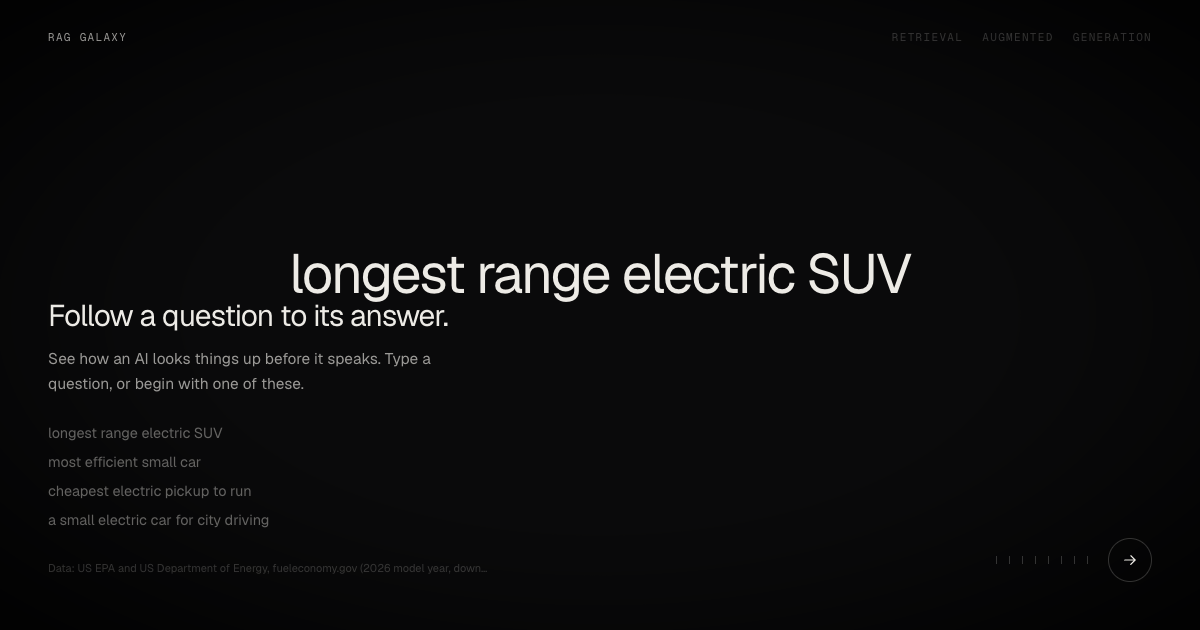
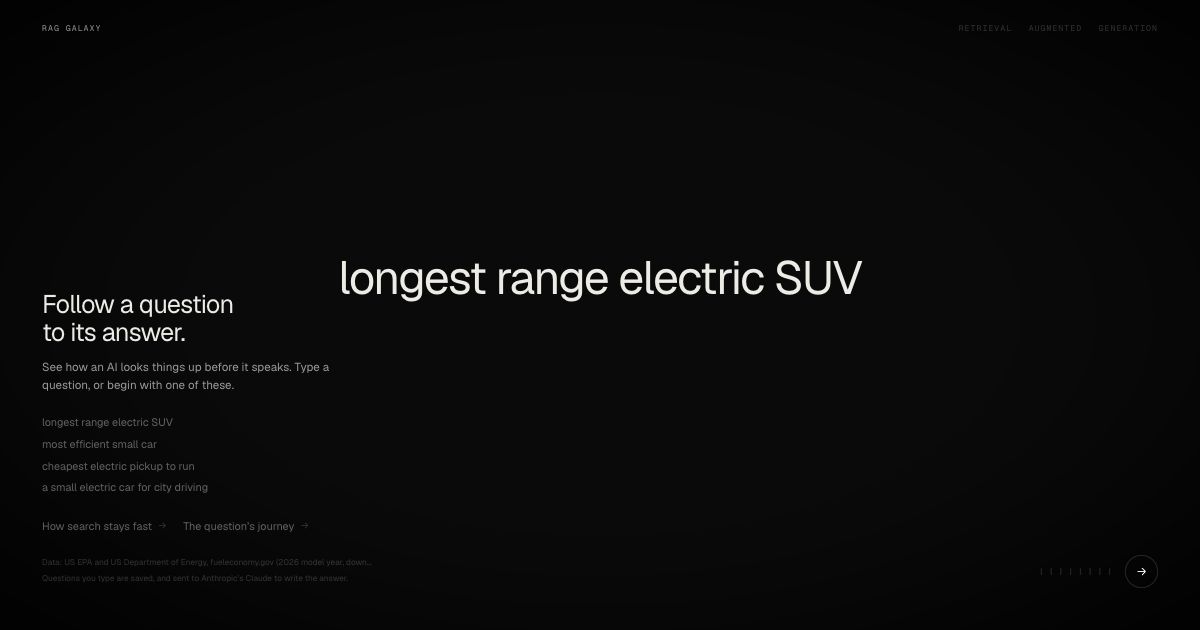
Before the announcement: no-3D message, visitor notice, automatic tests, new preview image
- a browser that can't draw 3D now gets a short explanation instead of an empty page
- the start page says that typed questions are saved and sent to Anthropic
- tests.yml runs the backend tests and a site build on every push and pull request
- og.png is a fresh picture of the current start page

diff --git a/frontend/src/ui/NoWebGL.jsx b/frontend/src/ui/NoWebGL.jsx
@@ -1,0 +1,24 @@
+// What a visitor sees when the browser can't draw 3D graphics at all (WebGL is
+// switched off, or the device doesn't have it). Without this they would get an
+// empty dark page and no idea why.
+export default function NoWebGL() {
+  return (
+    <div className="app">
+      <header className="top"><span className="mark">RAG Galaxy</span></header>
+      <section className="caption on">
+        <div>
+          <h2>This film needs 3D graphics.</h2>
+          <p className="caption-body">
+            RAG Galaxy is a short interactive film about how an AI looks things up before it answers, and it is
+            drawn in 3D. This browser has 3D graphics (WebGL) switched off or unavailable. Try a current version
+            of Chrome, Safari, Firefox or Edge, or turn on hardware acceleration in this browser’s settings.
+          </p>
+          <a className="caption-link" href="https://github.com/sxnfer/rag-galaxy">
+            Read about it on GitHub
+            <svg viewBox="0 0 24 24" aria-hidden="true"><path d="M5 12h14M13 6l6 6-6 6" /></svg>
+          </a>
+        </div>
+      </section>
+    </div>
+  )
+}

diff --git a/frontend/src/main.jsx b/frontend/src/main.jsx
@@ -1,7 +1,19 @@
 import { createRoot } from 'react-dom/client'
 import Site from './Site.jsx'
+import NoWebGL from './ui/NoWebGL.jsx'
 import './styles.css'
+
+// The films are drawn with WebGL, the browser feature for 3D graphics. If this
+// browser can't provide it, say so plainly instead of showing an empty page.
+function canDraw3D() {
+  try {
+    const canvas = document.createElement('canvas')
+    return !!(canvas.getContext('webgl2') || canvas.getContext('webgl'))
+  } catch {
+    return false
+  }
+}
 
 // StrictMode stays off: it mounts every component twice in development, which
 // restarts the 3D scene and its animations on load.
-createRoot(document.getElementById('root')).render(<Site />)
+createRoot(document.getElementById('root')).render(canDraw3D() ? <Site /> : <NoWebGL />)

diff --git a/frontend/src/ui/Intro.jsx b/frontend/src/ui/Intro.jsx
@@ -38,6 +38,8 @@ export default function Intro({ lib, libraries, library, onLibrary, examples, on
       {lib?.credit && (
         <button type="button" className={`credit ${open ? 'open' : ''}`} onClick={() => setOpen(!open)} aria-expanded={open}>{lib.credit}</button>
       )}
+      {/* Said plainly, because a visitor should know before typing: only typed questions, not the examples. */}
+      <p className="notice">Questions you type are saved, and sent to Anthropic’s Claude to write the answer.</p>
     </>
   )
 }

diff --git a/frontend/src/styles.css b/frontend/src/styles.css
@@ -123,6 +123,8 @@ svg { width: 18px; height: 18px; fill: none; stroke: currentColor; stroke-width:
 }
 .credit:hover, .credit.open { color: var(--ink-3); }
 .credit.open { white-space: normal; }
+.notice { margin: 4px 0 0; font-size: 11px; line-height: 1.6; color: var(--ink-4); }
+a.caption-link { text-decoration: none; }
 
 /* ---- Chapters 5 and 6: the label for the dot under the pointer ---- */
 .probe {
